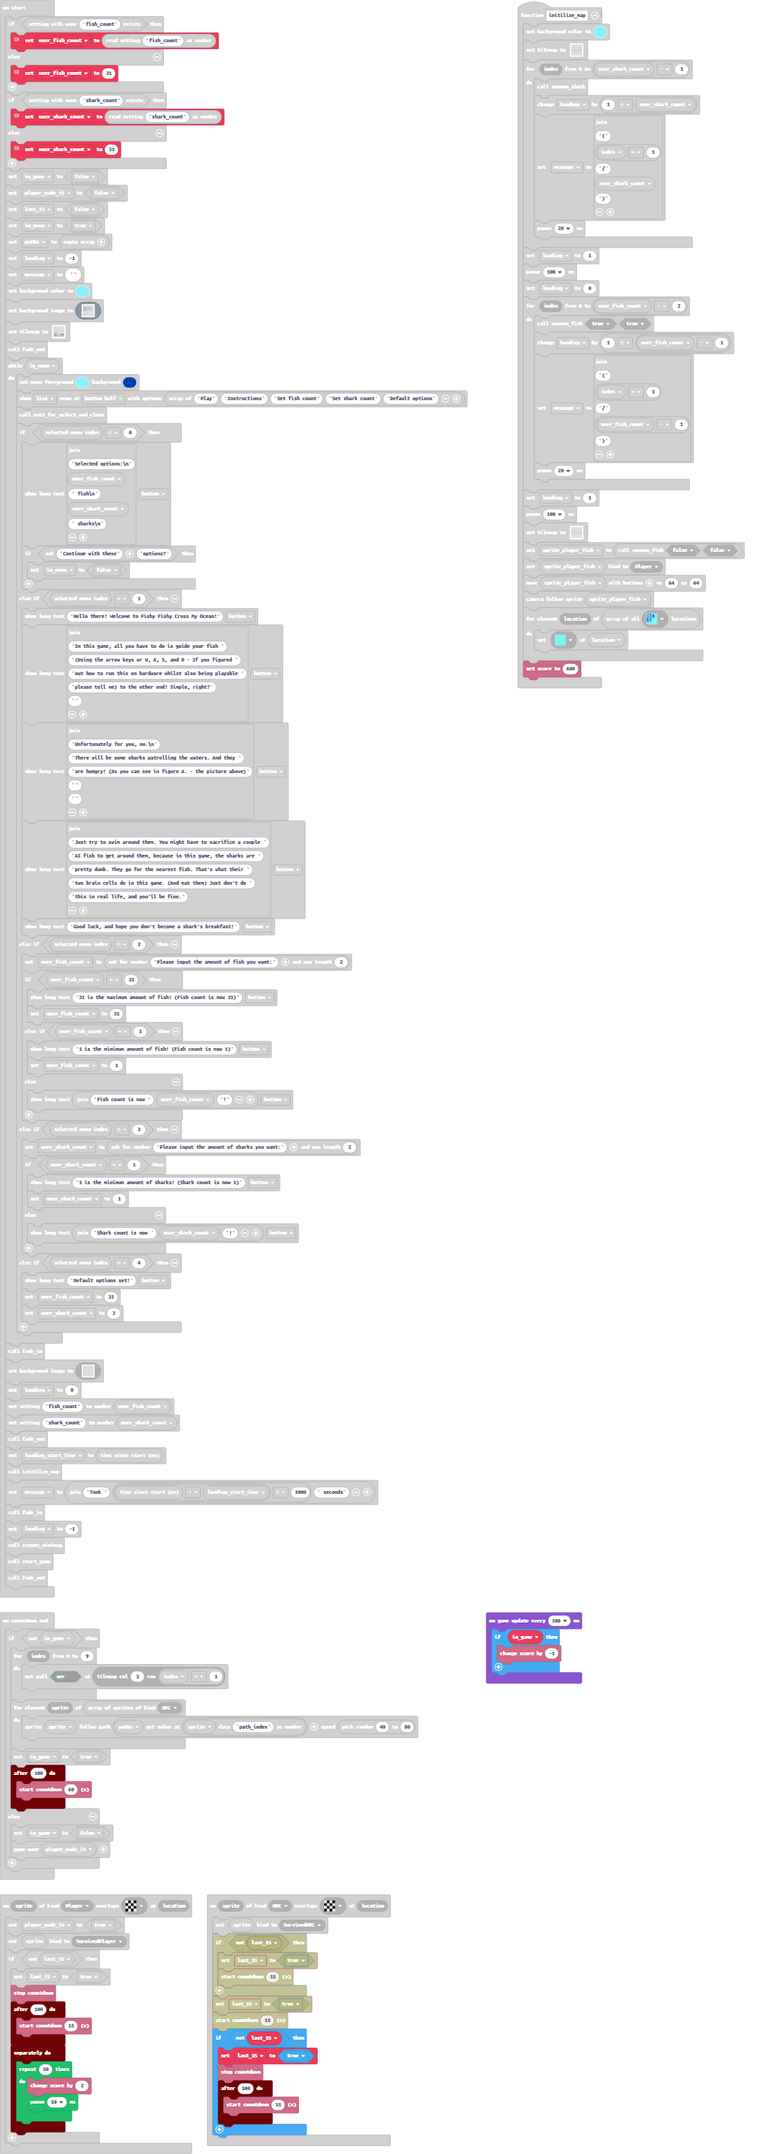
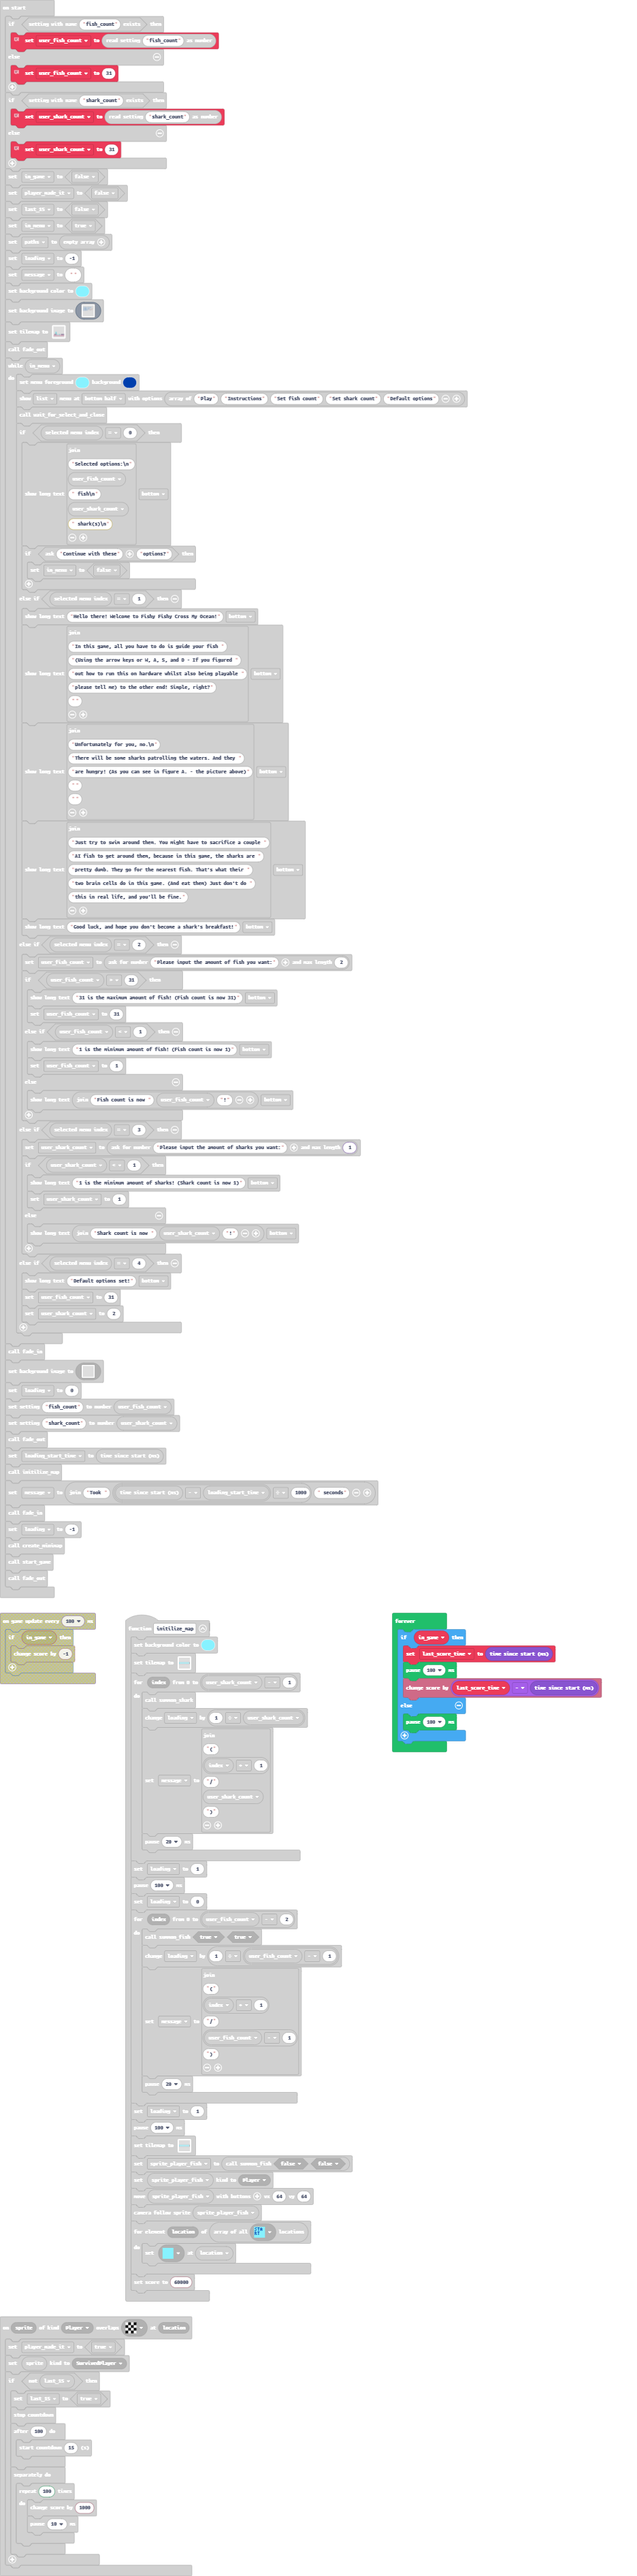
Better scoring system

diff --git a/main.ts b/main.ts
@@ -167,8 +167,8 @@ scene.onOverlapTile(SpriteKind.Player, myTiles.tile12, function (sprite, locatio
             info.startCountdown(15)
         })
         timer.background(function () {
-            for (let index = 0; index < 50; index++) {
-                info.changeScoreBy(2)
+            for (let index = 0; index < 100; index++) {
+                info.changeScoreBy(1000)
                 pause(10)
             }
         })
@@ -299,7 +299,7 @@ function initilize_map () {
     for (let location of tiles.getTilesByType(myTiles.tile13)) {
         tiles.setTileAt(location, myTiles.tile15)
     }
-    info.setScore(600)
+    info.setScore(60000)
 }
 function update_minimap () {
     map = minimap.minimap(MinimapScale.Eighth, 2, 11)
@@ -473,6 +473,7 @@ sprites.onOverlap(SpriteKind.Player, SpriteKind.Enemy, function (sprite, otherSp
 })
 let sprite_closest_sprite: Sprite = null
 let shortest_distance = 0
+let last_score_time = 0
 let sprite_map: Sprite = null
 let sprite_shark: Sprite = null
 let map: minimap.Minimap = null
@@ -560,7 +561,7 @@ scene.setBackgroundImage(img`
     ......6888888888..6888888888..6888888888..6888888888..6888.....6888..6888..8...888...888..........cbbddcfccccbcbcbbb1c333c........fd44cc4144f...................
     ......6888888888..6888888888..6888888888..6888888888..6888.....6888..6888..8.....8...8.............ccbddcccccbbbbbbb1c333c........fc444444df....................
     ......6888888888..6888888888..6888888888..6888888888..688866...6888..6888..8...888...888............ccbbccccccbbbbb11c333c.......cbdc4444ff.....................
-    ......6888..6888..6888........6888........6888..6888..6888888..6888..6888..8...8.......8............fccbfccccccbbbb11c133cc......cdddffff.......................
+    ......6888..6888..6888........6888........6888..6888..6888888..6888..6888..8...8.....8.8............fccbfccccccbbbb11c133cc......cdddffff.......................
     ......6888..6888..6888........6888........6888..6888..6888888..6888..6888..8.8.888.8.888............fccfcbbcccccbbbc11c31cc.......ccc...........................
     ......6888..6888..6888........688866666...6888666888..6888888666888..6888..........................fcbbf.cdddddfbbbc111111c.....................................
     ......6888..6888..6888........6888888888..6888888888..6888..6888888..6888..........................fbbf...cdddfbbdbf1111cc......................................
@@ -651,7 +652,7 @@ while (in_menu) {
     blockMenu.showMenu(["Play", "Instructions", "Set fish count", "Set shark count", "Default options"], MenuStyle.List, MenuLocation.BottomHalf)
     wait_for_select_and_close()
     if (blockMenu.selectedMenuIndex() == 0) {
-        game.showLongText("Selected options:\\n" + user_fish_count + " fish\\n" + user_shark_count + " sharks\\n", DialogLayout.Bottom)
+        game.showLongText("Selected options:\\n" + user_fish_count + " fish\\n" + user_shark_count + " shark(s)\\n", DialogLayout.Bottom)
         if (game.ask("Continue with these", "options?")) {
             in_menu = false
         }
@@ -673,7 +674,7 @@ while (in_menu) {
             game.showLongText("Fish count is now " + user_fish_count + "!", DialogLayout.Bottom)
         }
     } else if (blockMenu.selectedMenuIndex() == 3) {
-        user_shark_count = game.askForNumber("Please input the amount of sharks you want:", 2)
+        user_shark_count = game.askForNumber("Please input the amount of sharks you want:", 1)
         if (user_shark_count < 1) {
             game.showLongText("1 is the minimum amount of sharks! (Shark count is now 1)", DialogLayout.Bottom)
             user_shark_count = 1
@@ -834,6 +835,15 @@ forever(function () {
 })
 forever(function () {
     if (in_game) {
+        last_score_time = game.runtime()
+        pause(100)
+        info.changeScoreBy(last_score_time - game.runtime())
+    } else {
+        pause(100)
+    }
+})
+forever(function () {
+    if (in_game) {
         for (let sprite_shark of sprites.allOfKind(SpriteKind.Enemy)) {
             shortest_distance = 9999999999
             for (let sprite of sprites.allOfKind(SpriteKind.NPC)) {
@@ -874,10 +884,5 @@ forever(function () {
             }
             pause(50)
         }
-    }
-})
-game.onUpdateInterval(100, function () {
-    if (in_game) {
-        info.changeScoreBy(-1)
     }
 })
